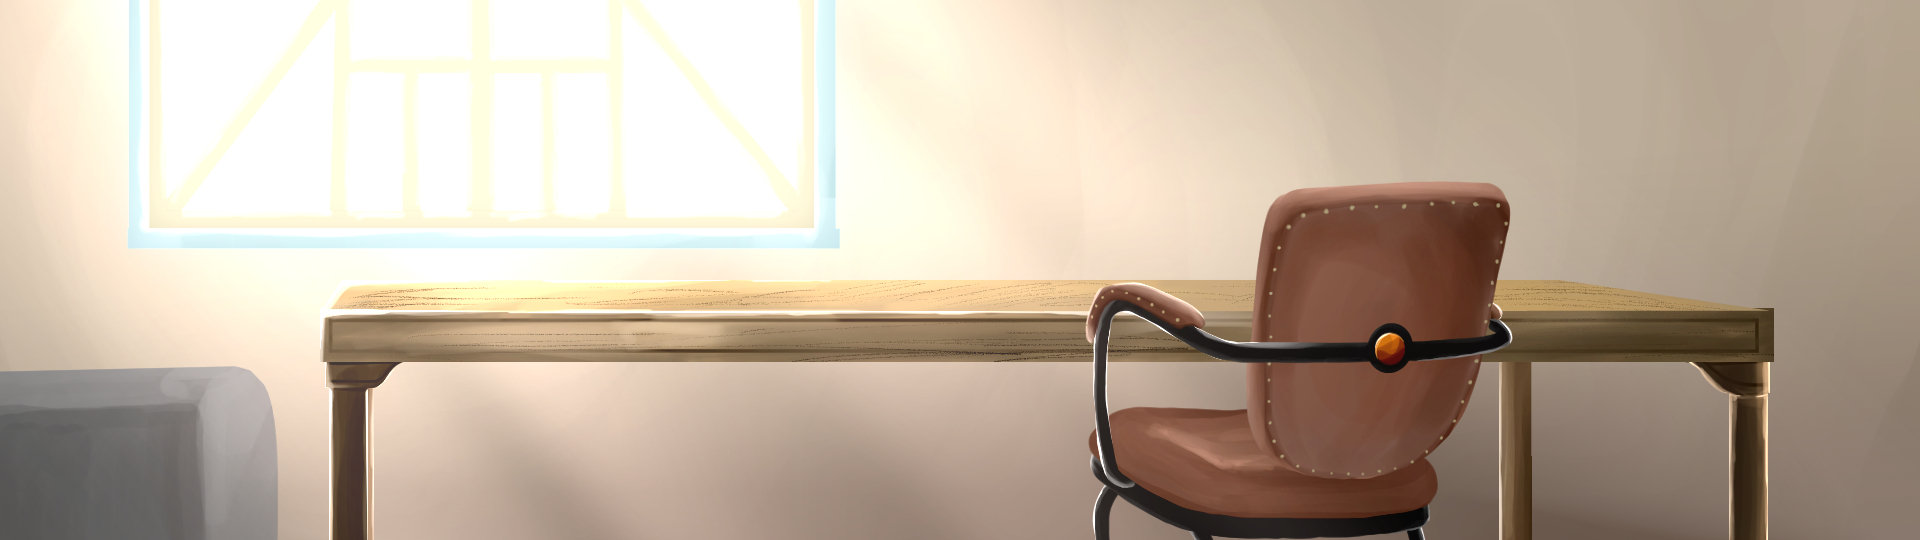
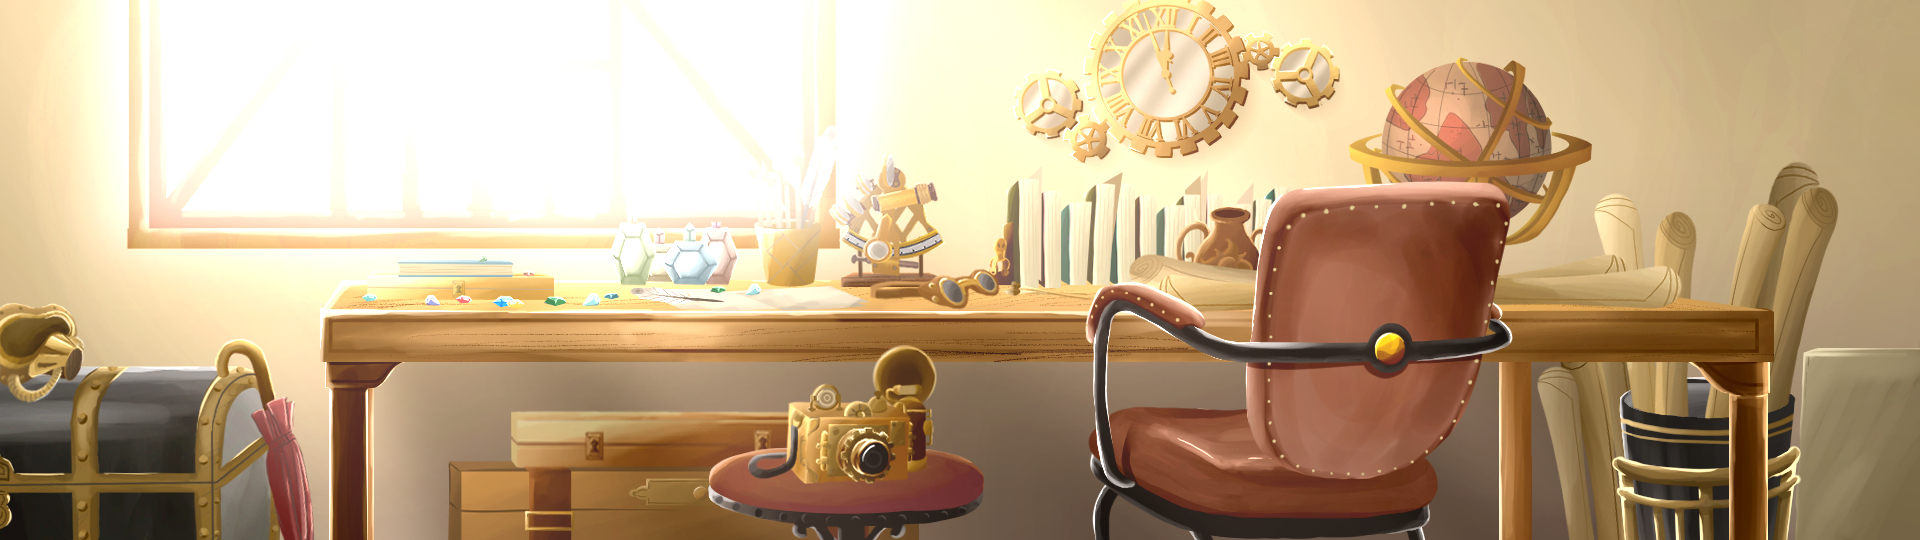
Required changes regarding styling

diff --git a/apps/market/src/app/search/painting/view/view.component.ts b/apps/market/src/app/search/painting/view/view.component.ts
@@ -1,6 +1,5 @@
 import { Component, ChangeDetectionStrategy, TemplateRef, ViewChild } from '@angular/core';
-import { ActivatedRoute } from '@angular/router';
-import { Location } from '@angular/common';
+import { ActivatedRoute, Router } from '@angular/router';
 import { PaintingService } from '@locart/painting';
 import { Painting } from '@locart/model';
 import { DurationForm, filterDates, RentService } from '@locart/rent';
@@ -19,7 +18,7 @@ import { map } from 'rxjs/operators';
 })
 export class PaintingViewComponent {
   @ViewChild('success') success!: TemplateRef<unknown>;
-  id = this.routes.snapshot.paramMap.get('paintingId');
+  id = this.route.snapshot.paramMap.get('paintingId');
   painting$ = this.service.valueChanges(this.id);
 
   form = new DurationForm();
@@ -36,15 +35,16 @@ export class PaintingViewComponent {
     private auth: AuthService,
     private service: PaintingService,
     private rentService: RentService,
-    private routes: ActivatedRoute,
+    private route: ActivatedRoute,
     private snackbar: MatSnackBar,
-    private location: Location
+    private router: Router
   ) { }
 
   async rent(painting: Painting) {
     const email = this.auth.user?.email;
-    const range = this.form.value
-    if (this.form.valid) this.form.reset() // stocking and reseting form value prior to calling the service prevents the datepick to display text in red
+    const range = this.form.value;
+    if (this.form.invalid) return this.form.markAsTouched(); // stocking and reseting form value prior to calling the service prevents the datepick to display text in red
+    if (this.form.valid) this.form.reset();
     if (!email) return alert('Vous devez être connecté');
     await this.rentService.add({
       email,
@@ -52,9 +52,8 @@ export class PaintingViewComponent {
       type: 'painting',
       workId: painting.id,
     });
-    this.form.reset();
     this.snackbar.openFromTemplate(this.success, { duration: 3000 });
-    this.location.back()
+    this.router.navigate(['..'], { relativeTo: this.route })
   }
 
 }

diff --git a/libs/media/src/lib/upload/list-img-upload/list-img-upload.component.html b/libs/media/src/lib/upload/list-img-upload/list-img-upload.component.html
@@ -25,7 +25,7 @@
 
   <ul>
     <li class="add">
-      <button class="elevation" type="button" (click)="fileInput.click()">
+      <button type="button" (click)="fileInput.click()">
         <mat-icon>add</mat-icon>
         <input #fileInput hidden (change)="openCropper($event)" type="file" [accept]="types" />
       </button>

diff --git a/apps/market/src/app/workshop/home/home.component.scss b/apps/market/src/app/workshop/home/home.component.scss
@@ -8,7 +8,7 @@
 
 header.main {
   padding: space.$xl;
-  background-image: url('/assets/img/workshopV2.jpg');
+  background-image: url('/assets/img/workshop.jpg');
   background-size: cover;
   color: var(--background);
   min-height: 300px;
